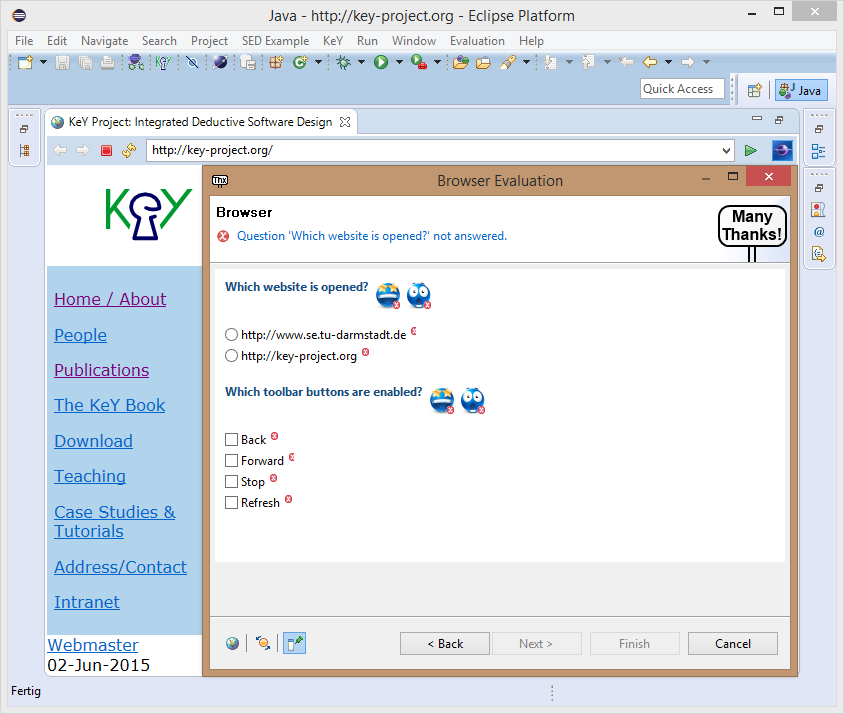
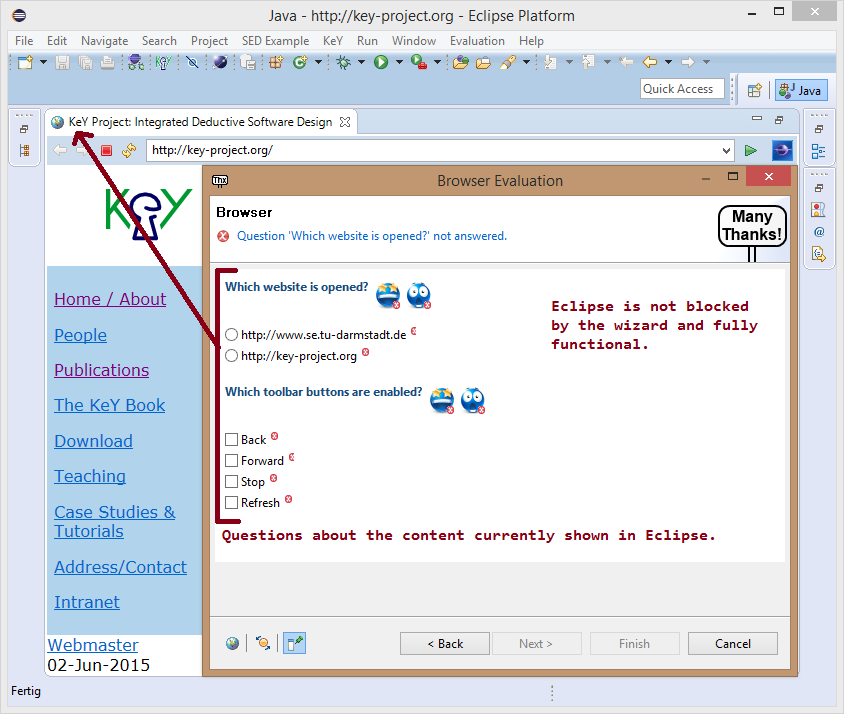
SED: Improved evaluation texts

diff --git a/SymbolicExecutionDebugger/src/plugins/org.key_project.sed.key.evaluation.model/data/understandingProofAttempts/instructions/SED.html b/SymbolicExecutionDebugger/src/plugins/org.key_project.sed.key.evaluation.model/data/understandingProofAttempts/instructions/SED.html
@@ -8,7 +8,7 @@
       <p>
          The <a href="http://www.key-project.org/eclipse/SED/index.html" target="_blank">Symbolic Execution Debugger (SED)</a> is a platform for interactive symbolic execution.
          Using KeY as symbolic execution engine, sequential Java programs specified with JML can be symbolically executed.
-         In this evaluation the SED will be used to inspect proofs performed by KeY. Interactive symbolic execution is not required.
+         In this evaluation the SED will be used to inspect proofs attempts. Interactive symbolic execution is not required.
       </p>
       <p>
          The relevant knowledge for this evaluation about SED is explained in the following sections.
@@ -28,7 +28,7 @@
                <ul>
                   <li><a href="#state">2.1 Inspecting a Symbolic State</a></li>
                   <li><a href="#layout">2.2 Visualizing Memory Layouts</a></li>
-                  <li><a href="#truth">2.3 Comprehend Truth Values of Postconditions, Preconditions and Loop Invariants</a></li>
+                  <li><a href="#truth">2.3 Comprehension of Truth Values of Postconditions, Preconditions and Loop Invariants</a></li>
                </ul>
             </li>
             <li><a href="#best">3 Best Practices to understand a Proof Attempt using SED</a></li>
@@ -45,7 +45,7 @@
       </p> 
       <p>
          Consider for instance the following Java program.
-         Method <code>equals</code> checks if the given <code>Number</code> instance has the same <code>content</code> as the current one.
+         Method <code>equals</code> checks whether the given <code>Number</code> instance has the same <code>content</code> as the current one.
          <code>
          <pre>
 public class Number {
@@ -66,35 +66,32 @@ public class Number {
 }</pre></code>
       </p>
       <p>
-         The resulting symbolic execution tree of method <code>equals</code> is shown in the following.
-         The root is a <i>start</i> (<img src="SED/icons/thread.gif" />) node representing the program fragment to execute.
+         The resulting symbolic execution tree of method <code>equals</code> is shown in the following figure.
+         The root is a <i>start</i> node (<img src="SED/icons/thread.gif" />) representing the program fragment to execute.
          It also restricts the initial state according to the JML specification.
-         As we are interested in method <code>equals</code>, it is called next represented by a <i>method call</i> (<img src="SED/icons/method_call.gif" />) node.
+         As we are interested in method <code>equals</code>, it is called next represented by a <i>method call</i> node (<img src="SED/icons/method_call.gif" />).
          The if statement is supposed to split execution and thus represented as <i>branch statement</i> (<img src="SED/icons/branch_statement.gif" />).
-         Here execution splits first in case that <code>n</code> is <code>null</code> or not and in latter case again in case that the <code>content</code> is identical or not.
-         The conditions under which a branch is taken are shown as <i>branch condition</i> (<img src="SED/icons/branch_condition.gif" />) nodes.
-         In case that <code>n</code> is <code>null</code>, the method returns with an uncaught <code>NullPointerException</code> indicated by the <i>exceptional method return</i> (<img src="SED/icons/exceptional_method_return.gif" />) node.
-         Finally, this path terminates exceptionally shown by the <i>exceptional termination</i> (<img src="SED/icons/exceptional_termination.gif" />) node.
-         In case that <code>n</code> is not <code>null</code>, a return statement is executed. As this statement is not supposed to split execution, a <i>statement</i> (<img src="SED/icons/statement.gif" />) node is used.
-         The <i>method return</i> (<img src="SED/icons/method_return.gif" />) nodes indicate that a called method is now returned and for non void methods the possible return values are shown as part of the node label.
-         Finally, a <i>termination</i> (<img src="SED/icons/termination.gif" />) node indicate that an execution path terminates normally without an uncaught exception.
+         The conditions under which a branch is taken are shown as <i>branch condition</i> nodes (<img src="SED/icons/branch_condition.gif" />).
+         In case that <code>n</code> is <code>null</code>, the method returns with an uncaught <code>NullPointerException</code> indicated by the <i>exceptional method return</i> node (<img src="SED/icons/exceptional_method_return.gif" />).
+         Finally, this path terminates exceptionally shown by the <i>exceptional termination</i> node (<img src="SED/icons/exceptional_termination.gif" />).
+         In case that <code>n</code> is not <code>null</code>, a return statement is executed. As this statement is not supposed to split execution, a <i>statement</i> node (<img src="SED/icons/statement.gif" />) is used.
+         The <i>method return</i> nodes (<img src="SED/icons/method_return.gif" />) indicate that a called method returns. Possible return values of non void methods are shown as part of the node label.
+         Finally, a <i>termination</i> node (<img src="SED/icons/termination.gif" />) indicate that an execution path terminates normally without an uncaught exception.
       </p>
       <p>
-         The blue rectangles group related nodes like an <code>if</code> statement or a method body.
+         The blue rectangles in the figure below group related nodes like an <code>if</code> statement or a method body.
       </p>
       <img src="SED/SED_SymbolicExecutionTree.png" />
 
       <h3><a name="set_mc">1.1 Symbolic Execution with Method Contracts</a></h3>
       <p>
-         A method call can be treated in two ways during symbolic execution.
-         The first opportunity is to inline the method body as in the previous example.
-         This is represented by a <i>method call</i> (<img src="SED/icons/method_call.gif" />) node and later after execution of the method body by a <i>method return</i> (<img src="SED/icons/method_return.gif" />) or <i>exceptional method return</i> (<img src="SED/icons/exceptional_method_return.gif" />) node.
+         A method call can be treated by inlining or by application of a method contract during symbolic execution.
+         Inlining of a method body as in the previous example is represented by a <i>method call</i> node (<img src="SED/icons/method_call.gif" />) and later after execution of the method body by a <i>method return</i> (<img src="SED/icons/method_return.gif" />) or <i>exceptional method return</i> node (<img src="SED/icons/exceptional_method_return.gif" />).
       </p> 
       <p>
-         The alternative to inlining is to apply the method contract of a called method.
-         Consider the following example. 
+         The following example explains the alternative to apply a method contract instead of inlining.
          Method <code>doubleValue</code> calls method <code>doDoubleValue</code> which should be treated during symbolic execution by applying its contract.
-         The resulting symbolic execution tree contains a <i>method contract</i> (<img src="SED/icons/method_contract.gif" />) node showing the applied contract as first order formula in KeY syntax.
+         The resulting symbolic execution tree contains a <i>method contract</i> node (<img src="SED/icons/method_contract.gif" />) showing the applied contract as first order formula in KeY syntax.
          The optional child branch conditions indicate that execution is continued in case of normal (<i>post</i>) or exceptional (<i>exceptional post</i>) termination of the called method.
          <code>
          <pre>
@@ -120,10 +117,10 @@ public class IntegerUtil {
       <p>
          A loop is always treated in this evaluation by applying the specified loop invariant.
          Consider for instance the following example.
-         The <i>loop invariant</i> (<img src="SED/icons/loop_invariant.gif" />) node shows the specified loop invariant as first order formula in KeY syntax.
+         The <i>loop invariant</i> node (<img src="SED/icons/loop_invariant.gif" />) shows the specified loop invariant as first order formula in KeY syntax.
          It also splits symbolic execution into two branches.
-         The <i>Body Preserves Invariant</i> branch is representative for an arbitrary loop iteration and executes only loop guard and body once.
-         Then it terminates indicated by the <i>loop body termination</i> (<img src="SED/icons/loop_body_termination.gif" />) node.
+         The <i>Body Preserves Invariant</i> branch represents an arbitrary loop iteration.
+         After execution of loop guard and loop body, the branch terminates indicated by the <i>loop body termination</i> node (<img src="SED/icons/loop_body_termination.gif" />).
          The <i>Use Case</i> branch continues execution after an arbitrary number of loop iterations after the loop.
          <code>
          <pre>
@@ -148,20 +145,20 @@ public class LoopExample {
 
       <h3><a name="verification">1.3 Proving by Symbolic Execution</a></h3>
       <p>
-         Termination (<img src="SED/icons/termination_not_verified.gif" />) and exceptional termination (<img src="SED/icons/exceptional_termination_not_verified.gif" />) nodes indicate if the postcondition (including assignable clause and uncaught exceptions) is not fulfilled
-         by a red crossed icon. A method contract (<img src="SED/icons/method_contract_not_pre.gif" />) node is also red crossed if the precondition of the applied contract is not fulfilled.
+         Termination (<img src="SED/icons/termination_not_verified.gif" />) and exceptional termination (<img src="SED/icons/exceptional_termination_not_verified.gif" />) nodes indicate by a red crossed icon if the postcondition (including assignable clause and uncaught exceptions) is not fulfilled. 
+         A method contract (<img src="SED/icons/method_contract_not_pre.gif" />) node is also marked by a red crossed icon if the precondition of the applied contract is not fulfilled.
          Finally, a loop invariant (<img src="SED/icons/loop_invariant _initially_invalid.gif" />) node is crossed if the loop invariant is initially not fulfilled and the loop body termination (<img src="SED/icons/loop_body_termination_not_verified.gif" />) node is crossed if the loop invariant (including decreasing and assignable clause) is not preserved.
       </p>      
       <p>
          <b>A symbolically executed method is correct iff 
             <ol>
                <li>all execution paths end in a termination, exceptional termination or loop body termination node and</li>
-               <li>non of the nodes in the full symbolic execution tree is red crossed.</li>
+               <li>none of the nodes in the full symbolic execution tree is red crossed.</li>
             </ol>      
          </b>
       </p>
       <p>
-         A method not proven to be correct can be caused by the following reasons:
+         If a method could not be proven correct, possible reasons are:
          <ul>
            <li>The analyzed source code is buggy which caused a state in which the Java program does not fulfill its specification.</li>
            <li>
@@ -190,7 +187,7 @@ public class LoopExample {
       <p>
          Each node in the symbolic execution tree represents the state before a statement is executed. 
          The state can be inspected after selection of the node of interest in view <i>Variables</i>.
-         Compared to a concrete execution, it shows symbolic values in column <i>Value</i>.
+         In contrast to a concrete execution, symbolic values are shown in column <i>Value</i>.
          Additional constraints are shown after selecting a variable in view <i>Properties</i> at tab <i>Constraints</i>.
       </p>
       <img src="SED/SED_Variables.png" />      
@@ -201,7 +198,7 @@ public class LoopExample {
          The SED allows to visualize all possible memory layouts by selecting context menu item <i>Visualize Memory Layouts</i> of a node.
       </p>
       <p>
-         A new diagram editor is then opened in perspective <i>State Visualization</i>.
+         This opens a new diagram editor in perspective <i>State Visualization</i>.
          The rectangle with rounded corners represents the current state which points to objects on the heap (rectangles).
          Lower compartments of objects show field variables with their symbolic values while the lower compartment of the current state shows local variables with their symbolic values.
          The red rectangles between arrows show the name of the represented variable/location.
@@ -212,7 +209,7 @@ public class LoopExample {
       </p>
       <img src="SED/SED_Layouts.png" />      
 
-      <h3><a name="truth">2.3 Comprehend Truth Values of Postconditions, Preconditions and Loop Invariants</a></h3>
+      <h3><a name="truth">2.3 Comprehension of Truth Values of Postconditions, Preconditions and Loop Invariants</a></h3>
       <p>
          KeY tries to evaluate postconditions within a proof after symbolic execution has finished. 
          Additionally, preconditions of applied method contracts and loop invariants are evaluated.
@@ -223,14 +220,14 @@ public class LoopExample {
       <p>
          In case that the proof splits in order to evaluate the formula, for each leaf (goal) is a group composite shown named after the unique ID of the leaf.
          In the example below, the proof does not split and thus only one group named <i>Node 29</i> is available.
-         Each group shows on the left of the implication arrow <code>==></code> the split condition and on the right the proven formula.
-         Terms evaluated to true are colored in green, terms evaluated to false are colored in red and terms colored in yellow are never or not completely evaluated during prove.
+         Each group shows on the left of the implication arrow <code>==></code> the split condition and on the right the to be proven formula.
+         Formulas evaluated to true are colored in green, terms evaluated to false are colored in red and terms colored in yellow are never or not completely evaluated during prove.
          In rare cases KeY splits the proof on a term which has nothing to do with the proven formula.
          In such a case the related part in the split condition is not colored (black).
       </p>
       <p>
          <b>A leaf fulfills the formula to show, iff the left side of the implication arrow <code>==></code> evaluates to false or iff the right side evaluates to true.</b>
-         In the example below evaluates to left side to true, thus the only chance to fulfill the formula is to evaluate the right side also to true.
+         In the example below evaluates the left side to true, thus the only chance to fulfill the formula is to evaluate the right side also to true.
          Let us inspect the terms of the conjunctions (<code>&</code>) more carefully.
          The term <code>exc = null</code> evaluates to true which is what the specification (normal_behavior) says.
          The terms <code>PostconditionEvaluation.x = 42</code> and <code>\forall ...</code> are not completely evaluated.

diff --git a/SymbolicExecutionDebugger/src/plugins/org.key_project.sed.key.evaluation.model/data/understandingProofAttempts/instructions/JML.html b/SymbolicExecutionDebugger/src/plugins/org.key_project.sed.key.evaluation.model/data/understandingProofAttempts/instructions/JML.html
@@ -13,7 +13,7 @@
          <b>Please read them carefully before you continue.</b>
          If you are familiar with JML, you can skip sections you know well.
          <ul>
-            <li><a href="#comments">1 JML comments</a></li>
+            <li><a href="#comments">1 JML Comments</a></li>
             <li><a href="#mc">2 Method Contracts</a></li>
             <li><a href="#invariants">3 Invariants</a></li>
             <li><a href="#loop">4 Loop Invariants</a></li>
@@ -21,7 +21,7 @@
          </ul>
       </p>
       
-      <h2><a name="comments">1 JML comments</a></h2>
+      <h2><a name="comments">1 JML Comments</a></h2>
       <p>
          JML specifications are placed as special comments within the Java source code.
          Such comments have to start with the <code>@</code> character.
@@ -35,16 +35,22 @@
 
       <h2><a name="mc">2 Method Contracts</a></h2>
       <p>
-         A method contract specifies the expected behavior of a method in terms of pre and postconditions.
+         A method contract specifies the expected behavior of a method in terms of pre- and postconditions.
          Assuming that the precondition is fulfilled when the method is called, the method guarantees that the postcondition is established when it returns.
          In JML the keywords <code>normal_behavior</code> and <code>exceptional_behavior</code> are used to specify that a method should terminate normally without a thrown exception or exceptionally otherwise.
-         Keyword <code>requires</code> followed by an expression defines a precondition while <code>ensures</code> also followed by an expression defines a postcondition.
+         Keyword <code>requires</code> followed by a boolean expression defines a precondition while <code>ensures</code> also followed by a boolean expression defines a postcondition.
          An expression is basically a normal Java expression as used for instance in <code>if</code> statements.
-         But additionally the implication operator <code>==></code> and quantors (e.g. <code>\forall</code>) can be used.
-         The expression of the ensures clause is evaluated in the state when the method returns.
-         This forms the need to access the call state (keword <code>\old</code>) and the method return value (keyword <code>\result</code>) within expressions.
+         But additionally the implication operator <code>==></code> and quantifiers (e.g. <code>\forall</code>) can be used.
+      </p>
+      <p>
+         The ensures clause makes a statement about the final state after method execution.
+         To express changes relative to the prestate before method invocation, the keyword <code>\old</code> can be used.
+         Keyword <code>\result</code> is used to refer to the method return value.
+      </p>
+      <p>
          The last part of a method contract is the assignable clause.
-         It lists all locations the method is allowed to change. In case the method should change nothing keyword <code>\nothing</code> is used.
+         It lists all locations the method is allowed to change. 
+         Keyword <code>\nothing</code> expresses that the method is not allowed to change any location.
       </p>
       <p>
          Consider the following example. 
@@ -106,8 +112,8 @@ private int acquiredCredits = 0;</pre></code>
          A loop invariant in JML consists of three parts:
          <ul>
             <li>Keyword <code>loop_invariant</code> is used to specify a loop invariant.</li>
-            <li>Keyword <code>decreasing</code> specifies a value which is always positive and decreased in each loop iteration. It is used by verification tools to prove termination of the loop.</li>
-            <li>Keyword <code>assignable</code> is used as for method contracts to limit the locations may changed by the loop.</li>
+            <li>Keyword <code>decreasing</code> specifies a value which is always positive and strictly decreased in each loop iteration. It is used to prove termination of the loop.</li>
+            <li>Keyword <code>assignable</code> limits the locations may changed by the loop.</li>
          </ul> 
       </p>
       <p>

diff --git a/SymbolicExecutionDebugger/src/plugins/org.key_project.sed.key.evaluation.model/data/understandingProofAttempts/instructions/EvaluationIntroduction.html b/SymbolicExecutionDebugger/src/plugins/org.key_project.sed.key.evaluation.model/data/understandingProofAttempts/instructions/EvaluationIntroduction.html
@@ -12,8 +12,8 @@
             <li><a href="#target">1 Target of Questions</a></li>
             <li><a href="#marker">2 Error Marker</a></li>
             <li><a href="#answers">3 Question Types</a></li>
-            <li><a href="#jumpTo">4 Jump to a not completely answered Question</a></li>
-            <li><a href="#trust">5 Trust into Correctness of a given Answer</a></li>
+            <li><a href="#trust">4 Trust into Correctness of a given Answer</a></li>
+            <li><a href="#jumpTo">5 Jump to a not completely answered Question</a></li>
             <li><a href="#toolbar">6 Toolbar</a></li>
             <li><a href="#closing">7 Closing the Wizard</a></li>
          </ul>
@@ -21,16 +21,19 @@
       
       <h2><a name="target">1 Target of Questions</a></h2>
       <p>
-         The non blocking evaluation wizard asks questions related to the currently shown content in Eclipse (full functional). 
-         The target in the screenshot below is the currently opened web browser.
-         <b>During this evaluation, the target will be a proof attempt opened in KeY (external window) or the Symbolic Execution Debugger.</b>
+         The evaluation wizard asks questions related to the content currently shown in Eclipse.
+         In the screenshot below questions are asked about the currently opened web browser.
+         <b>During this evaluation, questions will be asked about a proof attempt opened in KeY (external window) or the Symbolic Execution Debugger (perspective in Eclipse).</b>
+      </p>
+      <p>
+         The evaluation wizard does not block Eclipse. This means that Eclipse is fully functional and can be used without closing the evaluation wizard.
       </p>
       <img src="EvaluationIntroduction/Target.png" />
       
       <h2><a name="marker">2 Error Marker</a></h2>
       <p>
          Error marker are used to indicate that a question is not completely answered.
-         An error marker or its absence gives no feedback about the correctness of a given answer.
+         An error marker or its absence does not indicate whether a given answer is correct or not. 
       </p>
       <img src="EvaluationIntroduction/Marker.png" />
       
@@ -44,21 +47,21 @@
          By selecting an answer, related sub questions might become visible.
       </p>
       <img src="EvaluationIntroduction/Answers.png" />
-      
-      <h2><a name="jumpTo">4 Jump to a not completely answered Question</a></h2>
-      <p>
-         If a question is not completely answered an error message is shown in the title area.
-         You can click on the error message to make the related question visible.
-      </p>
-      <img src="EvaluationIntroduction/JumpTo.png" />
 
-      <h2><a name="trust">5 Trust into Correctness of a given Answer</a></h2>
+      <h2><a name="trust">4 Trust into Correctness of a given Answer</a></h2>
       <p>
          The emoticons shown to the right of a question are used to collect your trust in the correctness of your given answer.
          Select <img src="EvaluationIntroduction/emoticons/fantasy_dreams.png" width="16" height="16" /> if you are sure that your answer is right
          and <img src="EvaluationIntroduction/emoticons/omg.png" width="16" height="16" /> otherwise.
       </p>
       <img src="EvaluationIntroduction/Trust.png" />
+      
+      <h2><a name="jumpTo">5 Jump to a not completely answered Question</a></h2>
+      <p>
+         If a question is not completely answered an error message is shown in the title area.
+         You can click on the error message to make the related question visible.
+      </p>
+      <img src="EvaluationIntroduction/JumpTo.png" />
 
       <h2><a name="toolbar">6 Toolbar</a></h2>
       <p>

diff --git a/SymbolicExecutionDebugger/src/plugins/org.key_project.sed.key.evaluation.model/data/understandingProofAttempts/instructions/conditions.html b/SymbolicExecutionDebugger/src/plugins/org.key_project.sed.key.evaluation.model/data/understandingProofAttempts/instructions/conditions.html
@@ -25,8 +25,6 @@
          <li>
             An additional project will be created and later deleted during evaluation.
             <ul>
-               <li>The project will be automatically filled with a Java and Proof file.</li>
-               <li>The proof will be automatically opened in KeY or SED.</li>
                <li>Existing projects are not affected by the evaluation.</li>
             </ul>
          </li>
